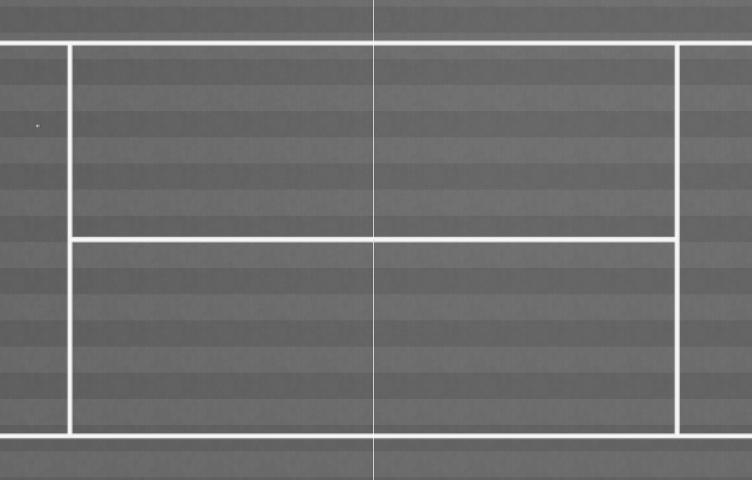
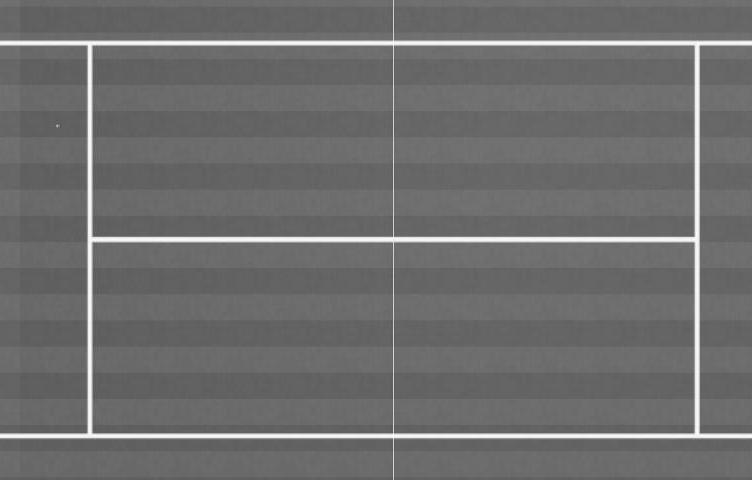
Shifted Images

Changed region(s): [[0.887, 0.0938, 0.9481, 0.9062], [0.0612, 0.0938, 0.1223, 0.9062]]

diff --git a/MatlabSim_Rev2.m b/MatlabSim_Rev2.m
@@ -45,12 +45,13 @@ end
 
 % Shift all test images to grayscale
 for i = 1:length(leftImages)
-    leftImages{i} = shiftImage(leftImages{i}, 0, 0);
-    rightImages{i} = shiftImage( rightImages{i}, 0, 0);
+    leftImages{i} = shiftImage(leftImages{i}, 20, 0);
+    rightImages{i} = shiftImage( rightImages{i}, 20, 0);
 end
 
 % After performing the shift operations on the first set of images
-
+shiftedLeftImage1 = leftImages{1};
+shiftedRightImage1 = rightImages{1};
 % Save the shifted left image of the first set as a JPEG file
 imwrite(shiftedLeftImage1, 'shiftedLeftImage1.jpg');
 
